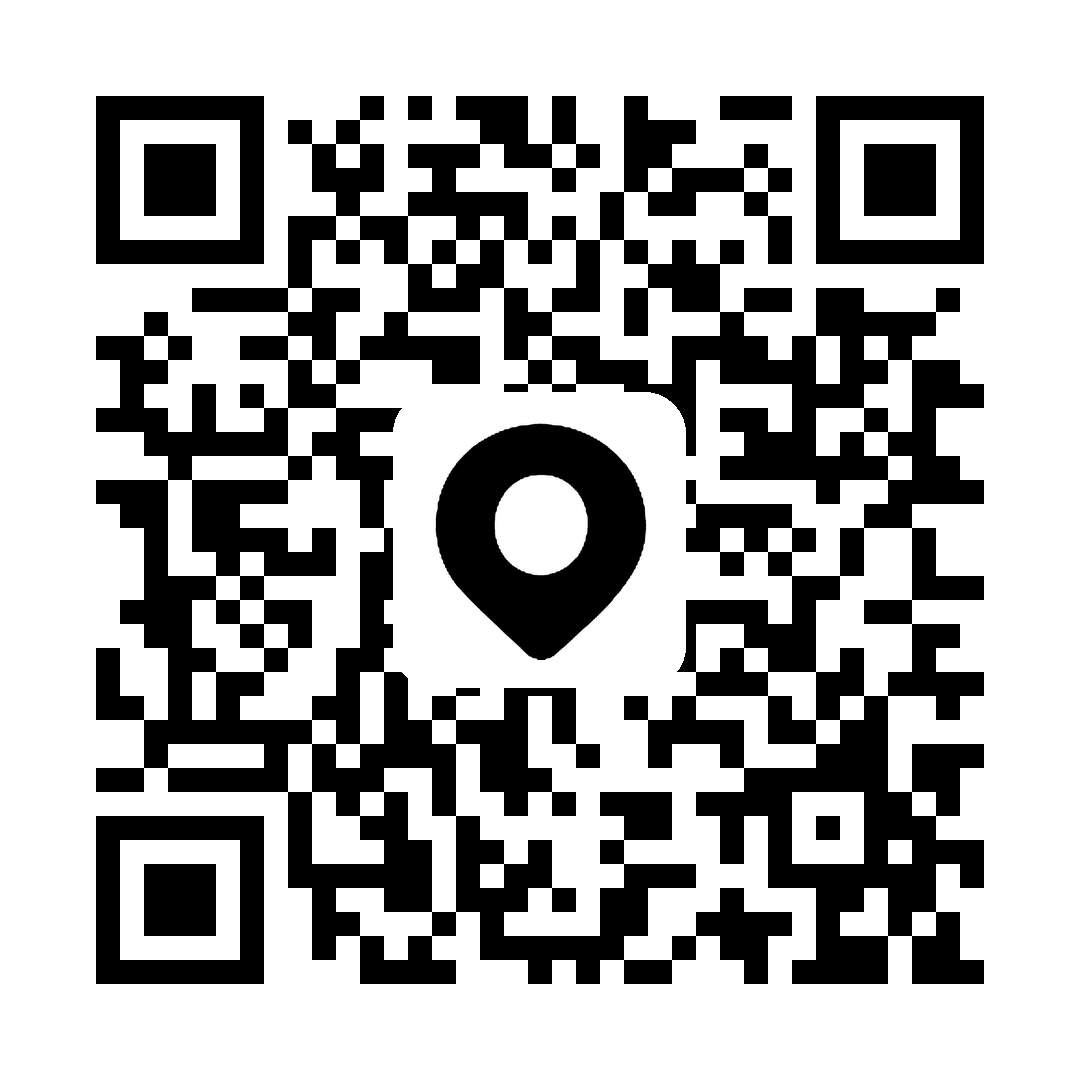
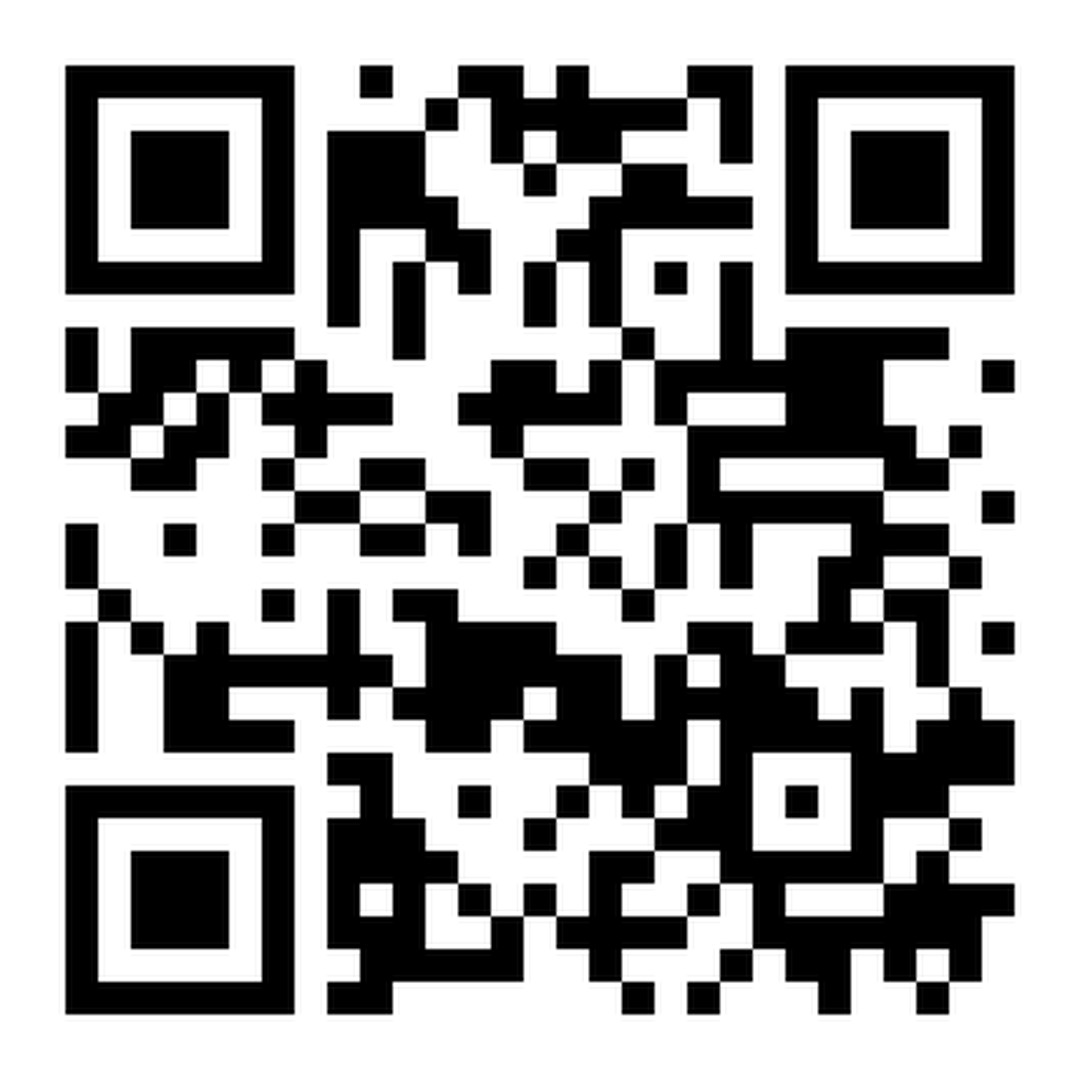
fix(descarga): el QR del login mandaba a la app de CLIENTES
`assets/images/sozu-qr-web.png` venia del clon y codificaba
obtener-clientes-app.sozu.com: un agente que escaneaba el QR de su propio login
terminaba instalando la app del cliente. El codigo ya apuntaba bien
(kAppDownloadUrl = obtener-agentes-app.sozu.com); la imagen, no.

QR regenerado para https://obtener-agentes-app.sozu.com, mismo tamano 1080x1080
para no tocar el layout, y verificado byte a byte contra el patron esperado.

Se agrega el worker que resuelve ese dominio en tool/, versionado en vez de vivir
solo en el dashboard de Cloudflare: si manana alguien cambia el package o el id de
App Store, este archivo es donde se ve a donde apunta el QR. Es el gemelo de
app-sozu-clientes.

IOS_APP_ID queda en null hasta que exista la ficha en App Store Connect: mientras,
un iPhone cae al fallback web en vez de a un 404 de App Store, que se lee como
"la app no salio".

diff --git a/tool/cloudflare-worker-obtener-agentes-app.js b/tool/cloudflare-worker-obtener-agentes-app.js
@@ -1,0 +1,64 @@
+/**
+ * Cloudflare Worker: obtener-agentes-app.sozu.com
+ *
+ * Redirector de descarga de la app de AGENTES. Detecta el sistema operativo por
+ * el User-Agent y manda a la tienda correcta. Es el destino que codifica el QR
+ * del login (`assets/images/sozu-qr-web.png`) y el respaldo del aviso de
+ * actualización cuando `app_agente_config` no trae la URL de tienda.
+ *
+ * Gemelo de `app-sozu-clientes` (obtener-clientes-app.sozu.com). Se mantiene
+ * como archivo en el repo, y no solo pegado en el dashboard, para que el destino
+ * de ese QR quede versionado: si alguien cambia el package o el id de App Store,
+ * este archivo es donde se ve.
+ *
+ * ── Cómo se publica ─────────────────────────────────────────────────────────
+ *   1. Cloudflare → Workers & Pages → Create application → Worker.
+ *      Nombre: `app-sozu-agentes` (el de clientes se llama `app-sozu-clientes`).
+ *   2. Pegar este archivo como código del worker y desplegar.
+ *   3. Settings → Domains & Routes → Add → Custom domain:
+ *      `obtener-agentes-app.sozu.com`. Cloudflare crea el registro DNS solo,
+ *      porque la zona sozu.com ya vive ahí.
+ *
+ * O con wrangler, desde esta carpeta:
+ *   npx wrangler deploy tool/cloudflare-worker-obtener-agentes-app.js \
+ *     --name app-sozu-agentes --compatibility-date 2026-08-11
+ *   (y luego el custom domain desde el dashboard)
+ *
+ * ── Pendiente al publicar en las tiendas ────────────────────────────────────
+ * `IOS_APP_ID` queda en null hasta que exista el registro en App Store Connect:
+ * el id numérico sale de la URL de la ficha (apps.apple.com/…/id<NUMERO>).
+ * Mientras sea null, un iPhone cae en FALLBACK en vez de mandar a una ficha que
+ * no existe — un 404 de App Store se lee como "la app no salió".
+ */
+
+/** Package de la app en Google Play (= `sozu.applicationId` de gradle.properties). */
+const ANDROID_PACKAGE = 'com.sozu.agentes_app';
+
+/** Id numérico de la app en App Store Connect. null = todavía no publicada. */
+const IOS_APP_ID = null;
+
+/** A dónde va quien no es móvil, o iOS sin ficha todavía. */
+const FALLBACK = 'https://agentes.sozu.com';
+
+const PLAY_URL = `https://play.google.com/store/apps/details?id=${ANDROID_PACKAGE}`;
+const APPSTORE_URL = IOS_APP_ID
+  ? `https://apps.apple.com/mx/app/id${IOS_APP_ID}`
+  : FALLBACK;
+
+export default {
+  async fetch(request) {
+    const ua = (request.headers.get('user-agent') || '').toLowerCase();
+
+    // iPad moderno se anuncia como Macintosh: sin el chequeo de touch, un iPad
+    // acabaría en el fallback web en vez de en App Store.
+    const esIOS = /iphone|ipod|ipad/.test(ua) ||
+      (/macintosh/.test(ua) && /mobile/.test(ua));
+    const esAndroid = /android/.test(ua);
+
+    const destino = esIOS ? APPSTORE_URL : esAndroid ? PLAY_URL : FALLBACK;
+
+    // 302 y no 301: el destino cambia cuando la app se publica en App Store, y
+    // un 301 se queda cacheado en el teléfono del agente para siempre.
+    return Response.redirect(destino, 302);
+  },
+};
